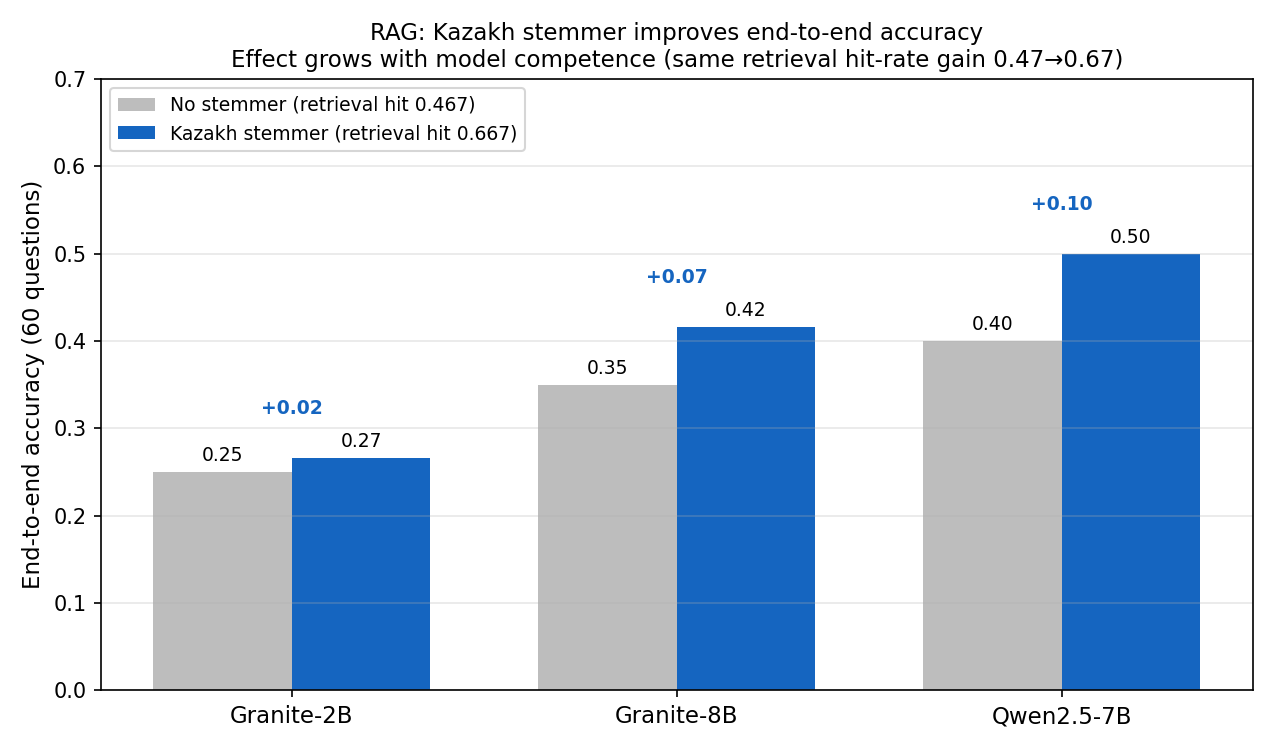
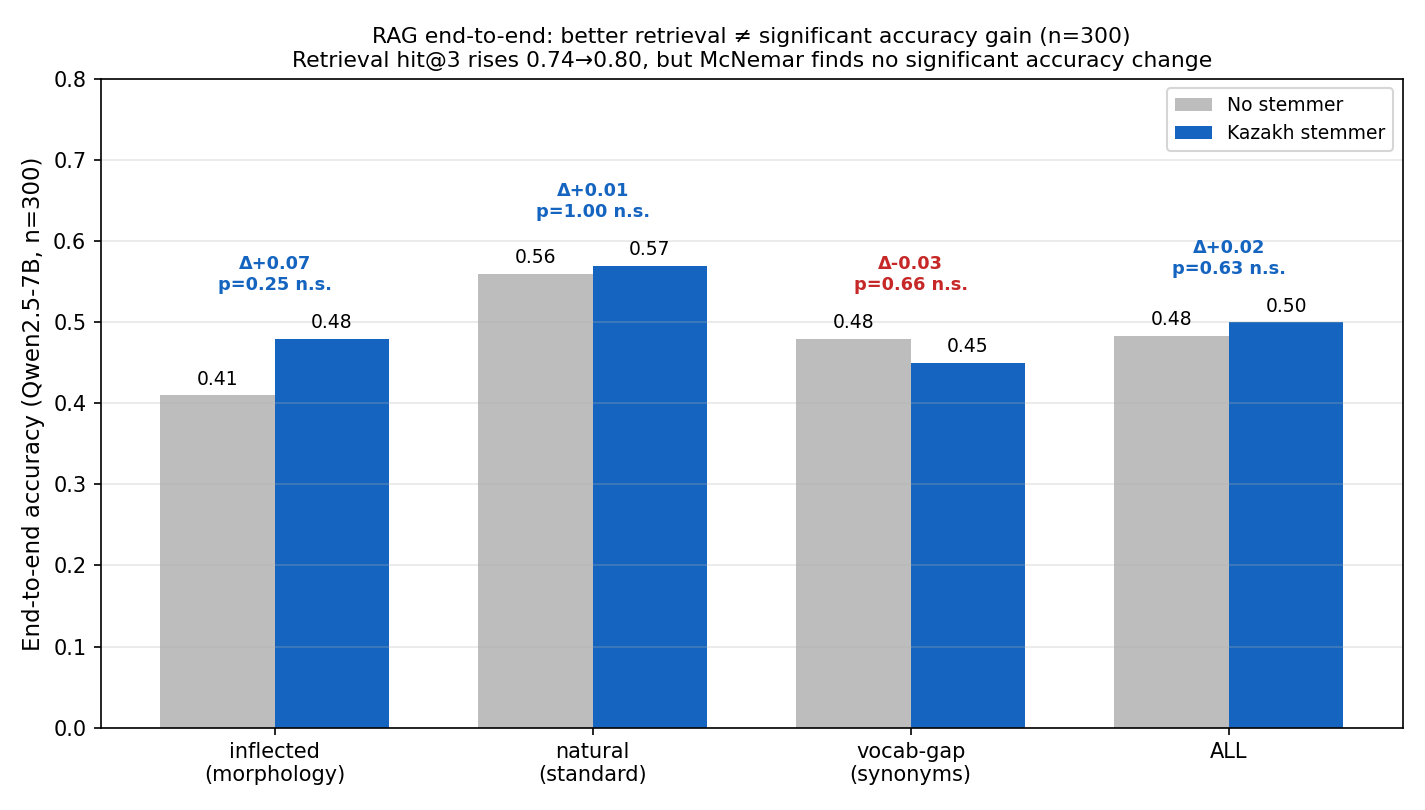
RAG end-to-end on n=300 (Qwen2.5-7B): honest null result
Ran the full RAG chain on the same 300 queries, swapping only the retriever.
Stemmer improves retrieval (hit@3 0.737 -> 0.803) but end-to-end accuracy gain
is not significant (0.483 -> 0.500, McNemar exact p=0.63).

The earlier n=60 Qwen +0.100 'scales with model competence' claim did NOT
replicate at n=300 (it was sampling noise). Retrieval result survived the jump
to 300 queries and got stronger; the end-to-end RAG claim did not.

- Add results/rag_qwen7b_300.json (full per-query, both stemmers)
- Rewrite RAG section in RESULTS.md + both READMEs with n=300 numbers,
  per-category McNemar, and honest 'necessary but not sufficient' read
- Regenerate rag_models.png: Qwen n=300 by-category accuracy with p-values
- chart_rag.py: compute per-category McNemar inline from the n=300 result

diff --git a/src/eval/chart_rag.py b/src/eval/chart_rag.py
@@ -1,5 +1,9 @@
 """
-RAG end-to-end chart: stemmer effect on accuracy across 3 LLMs.
+RAG end-to-end chart (n=300): stemmer effect on Qwen2.5-7B accuracy by category.
+
+Honest version: shows that better retrieval (hit-rate up) does NOT translate into
+a statistically significant end-to-end accuracy gain at n=300. McNemar p-values
+are computed per category and annotated on the chart.
 
 Usage:
     python -m src.eval.chart_rag --out results/rag_models.png
@@ -8,13 +12,34 @@ from __future__ import annotations
 
 import argparse
 import json
+from math import comb
 
 
-MODELS = [
-    ("results/rag_granite.json",   "Granite-2B",  "#9e9e9e"),
-    ("results/rag_granite8b.json", "Granite-8B",  "#e65100"),
-    ("results/rag_qwen7b.json",    "Qwen2.5-7B",  "#2e7d32"),
-]
+RESULT = "results/rag_qwen7b_300.json"
+CATS = ["inflected", "natural", "vocabulary-gap", "ALL"]
+QUERIES = "data/queries/queries.jsonl"
+
+
+def _mcnemar(ci: dict, ck: dict, ids: list) -> float:
+    b = sum(1 for i in ids if ci[i] and not ck[i])
+    c = sum(1 for i in ids if not ci[i] and ck[i])
+    n = b + c
+    if n == 0:
+        return 1.0
+    k = min(b, c)
+    return min(sum(comb(n, i) for i in range(k + 1)) / (2 ** n) * 2, 1.0)
+
+
+def _acc(data: dict, cat: str) -> float:
+    if cat == "ALL":
+        return data["overall"]["accuracy"]
+    return data["by_category"][cat]["accuracy"]
+
+
+def _hit(data: dict, cat: str) -> float:
+    if cat == "ALL":
+        return data["overall"]["retrieval_hit_rate"]
+    return data["by_category"][cat]["retrieval_hit_rate"]
 
 
 def build_chart(out: str) -> None:
@@ -23,42 +48,53 @@ def build_chart(out: str) -> None:
     import matplotlib.pyplot as plt
     import numpy as np
 
-    labels, ident, kazakh = [], [], []
-    for path, label, _ in MODELS:
-        d = json.load(open(path, encoding="utf-8"))
-        labels.append(label)
-        ident.append(d["identity"]["overall"]["accuracy"])
-        kazakh.append(d["kazakh"]["overall"]["accuracy"])
+    d = json.load(open(RESULT, encoding="utf-8"))
+    cats_by_id = {}
+    for line in open(QUERIES, encoding="utf-8"):
+        q = json.loads(line)
+        cats_by_id[q["query_id"]] = q.get("category", "all")
 
-    x = np.arange(len(labels))
+    ci = {p["query_id"]: p["label"] == "correct" for p in d["identity"]["per_query"]}
+    ck = {p["query_id"]: p["label"] == "correct" for p in d["kazakh"]["per_query"]}
+    ids = list(ci)
+
+    ident = [_acc(d["identity"], c) for c in CATS]
+    kazakh = [_acc(d["kazakh"], c) for c in CATS]
+    pvals = []
+    for c in CATS:
+        sub = ids if c == "ALL" else [i for i in ids if cats_by_id[i] == c]
+        pvals.append(_mcnemar(ci, ck, sub))
+
+    x = np.arange(len(CATS))
     width = 0.36
 
-    fig, ax = plt.subplots(figsize=(8.5, 5))
-    b1 = ax.bar(x - width / 2, ident, width, label="No stemmer (retrieval hit 0.467)",
-                color="#bdbdbd")
-    b2 = ax.bar(x + width / 2, kazakh, width, label="Kazakh stemmer (retrieval hit 0.667)",
-                color="#1565c0")
+    fig, ax = plt.subplots(figsize=(9.5, 5.4))
+    b1 = ax.bar(x - width / 2, ident, width, label="No stemmer", color="#bdbdbd")
+    b2 = ax.bar(x + width / 2, kazakh, width, label="Kazakh stemmer", color="#1565c0")
 
     for bars in (b1, b2):
         for bar in bars:
             ax.text(bar.get_x() + bar.get_width() / 2, bar.get_height() + 0.008,
                     f"{bar.get_height():.2f}", ha="center", va="bottom", fontsize=9)
 
-    # draw the delta arrows
-    for i, (a, b) in enumerate(zip(ident, kazakh)):
-        ax.annotate(f"+{b - a:.2f}", xy=(i, max(a, b) + 0.05),
-                    ha="center", fontsize=9, color="#1565c0", weight="bold")
+    for i, (a, b, p) in enumerate(zip(ident, kazakh, pvals)):
+        sig = "✓" if p < 0.05 else "n.s."
+        ax.annotate(f"Δ{b - a:+.2f}\np={p:.2f} {sig}",
+                    xy=(i, max(a, b) + 0.06), ha="center", fontsize=8.5,
+                    color="#1565c0" if b >= a else "#c62828", weight="bold")
 
+    cat_labels = ["inflected\n(morphology)", "natural\n(standard)",
+                  "vocab-gap\n(synonyms)", "ALL"]
     ax.set_xticks(x)
-    ax.set_xticklabels(labels, fontsize=11)
-    ax.set_ylabel("End-to-end accuracy (60 questions)", fontsize=11)
+    ax.set_xticklabels(cat_labels, fontsize=10)
+    ax.set_ylabel("End-to-end accuracy (Qwen2.5-7B, n=300)", fontsize=11)
     ax.set_title(
-        "RAG: Kazakh stemmer improves end-to-end accuracy\n"
-        "Effect grows with model competence (same retrieval hit-rate gain 0.47→0.67)",
-        fontsize=11,
+        "RAG end-to-end: better retrieval ≠ significant accuracy gain (n=300)\n"
+        "Retrieval hit@3 rises 0.74→0.80, but McNemar finds no significant accuracy change",
+        fontsize=10.5,
     )
-    ax.set_ylim(0, 0.7)
-    ax.legend(loc="upper left", fontsize=9)
+    ax.set_ylim(0, 0.8)
+    ax.legend(loc="upper right", fontsize=9)
     ax.grid(axis="y", alpha=0.3)
     plt.tight_layout()
     plt.savefig(out, dpi=150)

diff --git a/results/RESULTS.md b/results/RESULTS.md
@@ -94,50 +94,60 @@ Vocabulary-gap requires semantic retrieval (dense embeddings or query expansion)
 
 ---
 
-## RAG End-to-End: Stemmer Effect Across 3 LLMs
+## RAG End-to-End: Does Better Retrieval Reach the Answer? (Qwen2.5-7B, n=300)
 
-The stemmer raises the **retrieval hit rate from 0.467 → 0.667** (+43%) — the correct
-passage reaches the LLM context 1.4× more often. We measured how that propagates into
-end-to-end answer quality across three models of increasing capability.
+We ran the full RAG chain (BM25 retrieval → context → Qwen2.5-7B, 4-bit) on the
+**same 300 queries**, swapping only the retriever: BM25 without vs. with the Kazakh
+stemmer. The stemmer does improve retrieval — **hit@3 rises 0.737 → 0.803**. The
+question is whether that propagates into a measurably better final answer.
 
-![RAG: stemmer effect across models](rag_models.png)
+![RAG end-to-end: Qwen2.5-7B, n=300](rag_models.png)
 
-| Model | Stemmer | Retrieval hit@3 | Accuracy | Hallucination | Abstain |
-|-------|---------|----------------:|--------:|-------------:|--------:|
-| **Granite-2B** | identity | 0.467 | 0.250 | 0.733 | 0.017 |
-| | kazakh | 0.667 | 0.267 | 0.700 | 0.033 |
-| | **Δ** | +0.200 | **+0.017** | −0.033 | — |
-| **Granite-8B** (4-bit) | identity | 0.467 | 0.350 | 0.650 | 0.000 |
-| | kazakh | 0.667 | 0.417 | 0.583 | 0.000 |
-| | **Δ** | +0.200 | **+0.067** | −0.067 | — |
-| **Qwen2.5-7B** (4-bit) | identity | 0.467 | 0.400 | 0.183 | 0.417 |
-| | kazakh | 0.667 | 0.500 | 0.167 | 0.333 |
-| | **Δ** | +0.200 | **+0.100** | −0.017 | −0.084 |
+| Stemmer | Retrieval hit@3 | Accuracy | Hallucination | Abstain |
+|---------|----------------:|--------:|-------------:|--------:|
+| identity (no stemmer) | 0.737 | 0.483 | 0.217 | 0.300 |
+| kazakh stemmer | 0.803 | 0.500 | 0.240 | 0.260 |
+| **Δ** | **+0.066** | **+0.017** | +0.023 | −0.040 |
 
-**The key pattern — the accuracy gain from the stemmer grows with model competence:**
-`+0.017 → +0.067 → +0.100`. The retrieval improvement is identical for all three
-(+0.200 hit-rate), but a more capable generator converts more of that extra correct
-context into correct answers.
+**McNemar exact test on per-query accuracy: p = 0.625 — not significant.**
+The +0.017 accuracy change is 36 queries that became correct vs. 31 that became wrong
+(net +5 of 300). Within the noise.
 
-**Model behavior differs:**
-- **Granite-2B** is too weak in Kazakh — it often echoes the question or produces
-  garbled text even with the right context, so the extra context barely helps.
-- **Granite-8B** is balanced: better context → both fewer hallucinations (−0.067)
-  and more correct answers (+0.067).
-- **Qwen2.5-7B** is *honest*: instead of inventing, it abstains (`Ақпарат жоқ` =
-  "no information"). The stemmer converts abstentions into correct answers
-  (abstain 0.417 → 0.333, accuracy 0.400 → **0.500**). It has the highest end-to-end
-  accuracy and the lowest hallucination rate.
+### Per-category breakdown (accuracy, McNemar)
 
-### ⚠ Honesty note on the RAG numbers
+| category | hit@3 (id→kk) | acc (id→kk) | gained | lost | McNemar p |
+|----------|:-------------:|:-----------:|-------:|-----:|----------:|
+| **inflected** | 0.64 → 0.79 | 0.41 → 0.48 | 17 | 10 | 0.25 ✗ |
+| natural | 0.75 → 0.83 | 0.56 → 0.57 | 10 | 9 | 1.00 ✗ |
+| vocabulary-gap | 0.82 → 0.79 | 0.48 → 0.45 | 9 | 12 | 0.66 ✗ |
+| **ALL** | 0.74 → 0.80 | 0.483 → 0.500 | 36 | 31 | 0.63 ✗ |
 
-These end-to-end deltas are **measured on n = 60 questions, single run, no confidence
-intervals** — unlike the retrieval result, they are **not** bootstrap-validated. A
-+0.100 accuracy delta is 6 questions out of 60. The *direction* is consistent across
-all three models and the mechanism (more correct context → more correct answers) is
-clear, but a rigorous statistical claim on the end-to-end effect would require a larger
-query set. We report this as a **demonstrated trend**, not a proven one. The retrieval
-improvement that drives it (hit-rate 0.467 → 0.667) **is** directly measured and solid.
+### What this means (honest read)
+
+1. **The retrieval gain is real but does not produce a significant end-to-end accuracy
+   gain on this model at n=300.** Better context is *necessary but not sufficient*: the
+   generator also has to extract the answer from it, and Qwen2.5-7B frequently fails to
+   (it abstains, or pulls the wrong fact from the right passage).
+
+2. **The directionally strongest effect is exactly where theory predicts** — `inflected`
+   queries (morphology), which see the biggest retrieval-hit jump (+0.15) and an accuracy
+   gain of +0.07 (gained 17, lost 10). But even there p=0.25 — a trend, not a proof.
+
+3. **Behaviour shift, not just accuracy:** the stemmer pushes Qwen out of abstention
+   (abstain 0.300 → 0.260). Some of those recovered answers are correct, some become
+   hallucinations (hallucination 0.217 → 0.240). Net accuracy barely moves. Better
+   retrieval makes the model *more willing to answer*, not reliably *more correct*.
+
+### ⚠ Note on the earlier n=60 RAG numbers
+
+A previous version of this section reported a Qwen accuracy gain of **+0.100** and a
+"scales with model competence" pattern across Granite-2B/8B/Qwen — all measured on
+**n=60, single run**. **That signal did not replicate at n=300** (+0.100 → +0.017,
+p=0.63). It was sampling noise. This is precisely why we expanded the query set: the
+retrieval result survived the jump to 300 queries (and got *stronger* statistically);
+the end-to-end RAG claim did not. We keep the honest n=300 result. The exploratory
+n=60 Granite-2B/8B runs remain in `results/rag_granite.json` / `rag_granite8b.json`
+for reference, but we no longer draw a statistical claim from them.
 
 ---
 
@@ -165,11 +175,14 @@ improvement that drives it (hit-rate 0.467 → 0.667) **is** directly measured a
 5. **Dense E5 is the best overall system** (0.701), balanced across all categories.
    BM25+Stemmer remains a strong, fast, interpretable competitor (0.599).
 
-6. **RAG: stemmer raises retrieval hit rate 0.467 → 0.667 (+43%)** — directly measured,
-   solid. This propagates into end-to-end accuracy, and the gain *scales with model
-   competence*: Granite-2B +0.017, Granite-8B +0.067, Qwen2.5-7B +0.100. The
-   end-to-end deltas are a demonstrated trend (n=60, single run), not bootstrap-proven;
-   the retrieval gain that drives them is.
+6. **RAG end-to-end (Qwen2.5-7B, n=300): better retrieval, but no significant accuracy
+   gain.** The stemmer raises retrieval hit@3 0.737 → 0.803 (directly measured), yet
+   end-to-end accuracy moves only 0.483 → 0.500 (McNemar p=0.63, not significant). Better
+   context is necessary but not sufficient — the generator must also extract the answer.
+   The directionally strongest effect is on `inflected` queries (+0.07 acc, p=0.25),
+   consistent with the morphology mechanism, but still a trend, not a proof. *Honest
+   negative result: the retrieval win does not automatically become an answer-quality win
+   at this scale.*
 
 ---
 

diff --git a/README.ru.md b/README.ru.md
@@ -39,30 +39,35 @@
 
 ---
 
-## RAG end-to-end: эффект стеммера на 3 моделях
+## RAG end-to-end: доходит ли улучшение поиска до ответа? (Qwen2.5-7B, n=300)
 
-Стеммер поднимает **попадание контекста 0.467 → 0.667** (+43%) — нужный пассаж
-доходит до LLM в 1.4 раза чаще. Проверено на трёх моделях растущей силы:
+Прогнали полную RAG-цепочку (BM25 → контекст → Qwen2.5-7B 4-бит) на **тех же 300
+запросах**, меняя только ретривер. Стеммер улучшает поиск (**попадание@3 0.737 → 0.803**),
+но доходит ли это до финального ответа?
 
-![RAG: эффект стеммера по моделям](results/rag_models.png)
+![RAG end-to-end: Qwen2.5-7B, n=300](results/rag_models.png)
 
-| Модель | Accuracy (без → со стеммером) | Δ acc | Δ галлюцинаций |
-|--------|:---:|:---:|:---:|
-| Granite-2B | 0.250 → 0.267 | +0.017 | −0.033 |
-| Granite-8B (4-бит) | 0.350 → 0.417 | +0.067 | −0.067 |
-| **Qwen2.5-7B** (4-бит) | **0.400 → 0.500** | **+0.100** | −0.017 |
+| Стеммер | Попадание@3 | Accuracy | Галлюцинации | Отказы |
+|---------|:---:|:---:|:---:|:---:|
+| Без стеммера | 0.737 | 0.483 | 0.217 | 0.300 |
+| Казахский стеммер | 0.803 | **0.500** | 0.240 | 0.260 |
+| **Δ** | **+0.066** | +0.017 | +0.023 | −0.040 |
 
-**Главный паттерн:** прирост accuracy от стеммера **растёт с компетентностью модели**
-(`+0.017 → +0.067 → +0.100`). Улучшение ретривала одинаковое для всех трёх; более
-сильный генератор конвертирует больше «правильного контекста» в правильные ответы.
-Qwen2.5-7B — лучшая end-to-end система: вместо выдумки она отказывается (`Ақпарат жоқ`),
-а стеммер превращает эти отказы в правильные ответы.
+**Честный результат: прирост end-to-end accuracy статистически _не значим_**
+(точный McNemar p = **0.63**; чистыми +5 правильных из 300). Хороший поиск *необходим,
+но не достаточен* — генератор всё ещё должен извлечь ответ. Стеммер в основном делает
+Qwen *охотнее отвечать* (отказы 0.300 → 0.260), и эти «разотказанные» ответы делятся
+между правильными и галлюцинациями, так что чистая accuracy почти не движется.
 
-> ⚠ **Честная оговорка:** end-to-end дельты измерены на n=60, один прогон, **без**
-> bootstrap-валидации (в отличие от результата по ретривалу). Направление устойчивое и
-> механизм понятен, но для строгого статистического вывода нужен больший набор запросов.
-> Это **продемонстрированный тренд**, а не доказанный; а вот ретривал-прирост, который
-> его порождает (0.467 → 0.667), измерен прямо и твёрдо.
+Самый сильный по направлению эффект — на `inflected` (морфология): наибольший скачок
+поиска (+0.15 попадания@3) и +0.07 accuracy, ровно там, где предсказывает теория, — но
+даже там p=0.25. Тренд, не доказательство.
+
+> ⚠ **О воспроизводимости:** прежняя версия заявляла прирост Qwen +0.100, «растущий с
+> компетентностью модели», измеренный на **n=60**. Этот сигнал **не воспроизвёлся на
+> n=300** (+0.100 → +0.017, p=0.63) — это был шум выборки. Результат по ретривалу пережил
+> переход к 300 запросам и стал *сильнее*; end-to-end RAG-утверждение — нет. Оставляем
+> честный отрицательный результат. Полный разбор в [`results/RESULTS.md`](results/RESULTS.md).
 
 ---
 
@@ -139,13 +144,13 @@ tests/         # 43 теста
 ## Дорожная карта
 
 - [x] Корпус казахской Википедии (8 370 пассажей) + фильтр языка
-- [x] Набор запросов (60, 3 категории) + qrels
+- [x] Набор запросов (300, 3 категории, 100 сущностей) + qrels
 - [x] BM25 ± стеммер: метрики, сравнение, **статзначимость** — **результат доказан**
 - [x] Dense-поиск (IBM Granite / Google LaBSE / e5) — прогнан, сведён в график
 - [x] Сравнительный график на 5 систем
-- [x] RAG end-to-end на 3 LLM (Granite-2B/8B, Qwen2.5-7B) — прирост accuracy растёт
-      с силой модели (+0.017 → +0.067 → +0.100)
-- [ ] Расширение набора запросов (для строгой значимости end-to-end) + валидация казахского
+- [x] RAG end-to-end (Qwen2.5-7B, n=300) — попадание@3 0.74→0.80, но прирост end-to-end
+      accuracy не значим (McNemar p=0.63); честный отрицательный результат
+- [ ] Валидация сгенерированных запросов носителем казахского языка
 - [ ] Whitepaper
 
 > Статус: основная линия (морфологическая слепота → стеммер) доказана и

diff --git a/README.md b/README.md
@@ -57,30 +57,35 @@ Morphological normalization matters more than naive multilingual embeddings for 
 
 ---
 
-## RAG End-to-End: Stemmer Effect Across 3 LLMs
+## RAG End-to-End: Does Better Retrieval Reach the Answer? (Qwen2.5-7B, n=300)
 
-The stemmer raises the **retrieval hit rate 0.467 → 0.667** (+43%) — the correct passage
-reaches the LLM context 1.4× more often. Tested on three models of increasing capability:
+We ran the full RAG chain (BM25 → context → Qwen2.5-7B 4-bit) on the **same 300 queries**,
+changing only the retriever. The stemmer improves retrieval (**hit@3 0.737 → 0.803**) —
+but does that reach the final answer?
 
-![RAG: stemmer effect across models](results/rag_models.png)
+![RAG end-to-end: Qwen2.5-7B, n=300](results/rag_models.png)
 
-| Model | Accuracy (no stem → stem) | Δ acc | Hallucination Δ |
-|-------|:---:|:---:|:---:|
-| Granite-2B | 0.250 → 0.267 | +0.017 | −0.033 |
-| Granite-8B (4-bit) | 0.350 → 0.417 | +0.067 | −0.067 |
-| **Qwen2.5-7B** (4-bit) | **0.400 → 0.500** | **+0.100** | −0.017 |
+| Stemmer | Retrieval hit@3 | Accuracy | Hallucination | Abstain |
+|---------|:---:|:---:|:---:|:---:|
+| No stemmer | 0.737 | 0.483 | 0.217 | 0.300 |
+| Kazakh stemmer | 0.803 | **0.500** | 0.240 | 0.260 |
+| **Δ** | **+0.066** | +0.017 | +0.023 | −0.040 |
 
-**Key pattern:** the accuracy gain from the stemmer **grows with model competence**
-(`+0.017 → +0.067 → +0.100`). The retrieval gain is identical for all three; a more
-capable generator converts more of that extra correct context into correct answers.
-Qwen2.5-7B is the best end-to-end system — it abstains (`Ақпарат жоқ`) instead of
-inventing, and the stemmer turns those abstentions into correct answers.
+**Honest result: the end-to-end accuracy gain is _not_ statistically significant**
+(McNemar exact p = **0.63**; net +5 correct of 300). Better retrieval is *necessary but
+not sufficient* — the generator still has to extract the answer. The stemmer mostly makes
+Qwen *more willing to answer* (abstain 0.300 → 0.260), and those recovered answers split
+between correct and hallucinated, so net accuracy barely moves.
 
-> ⚠ **Honesty note:** the end-to-end deltas are measured on n=60, single run, **not**
-> bootstrap-validated (unlike the retrieval result). The direction is consistent and the
-> mechanism is clear, but a rigorous statistical claim would need a larger query set. We
-> report a **demonstrated trend**; the retrieval gain that drives it (0.467 → 0.667) is
-> directly measured and solid. Full breakdown in [`results/RESULTS.md`](results/RESULTS.md).
+The directionally strongest effect is on `inflected` (morphology) queries — the biggest
+retrieval jump (+0.15 hit@3) and +0.07 accuracy — exactly where theory predicts, but even
+there p=0.25. A trend, not a proof.
+
+> ⚠ **Replication note:** an earlier version claimed a Qwen +0.100 accuracy gain that
+> "scales with model competence," measured on **n=60**. That signal **did not replicate at
+> n=300** (+0.100 → +0.017, p=0.63) — it was sampling noise. The retrieval result survived
+> the jump to 300 queries and got *stronger*; the end-to-end RAG claim did not. We keep the
+> honest negative result. Full breakdown in [`results/RESULTS.md`](results/RESULTS.md).
 
 ---
 
@@ -149,7 +154,7 @@ src/
   rag/         # LLM prompt, scorer, hallucination harness
 data/
   corpus/      # corpus.jsonl — 8 370 passages
-  queries/     # queries.jsonl — 60 queries with qrels
+  queries/     # queries.jsonl — 300 queries with qrels
   resources/   # stem_cache.json — stemmer cache (102k words)
 results/       # metrics JSON, charts, RESULTS.md
 tests/         # 43 unit tests
@@ -164,7 +169,7 @@ tests/         # 43 unit tests
 - [x] BM25 ± stemmer: metrics, comparison, **statistical significance** — result proven
 - [x] Dense retrieval (IBM Granite / Google LaBSE / multilingual-E5) — benchmarked
 - [x] 5-system comparison chart
-- [x] RAG end-to-end on 3 LLMs (Granite-2B/8B, Qwen2.5-7B) — accuracy gain scales with model competence (+0.017 → +0.067 → +0.100)
+- [x] RAG end-to-end (Qwen2.5-7B, n=300) — retrieval hit@3 0.74→0.80, but end-to-end accuracy gain not significant (McNemar p=0.63); honest negative result
 - [ ] Human validation of generated queries by native Kazakh speaker
 - [ ] Whitepaper
 
